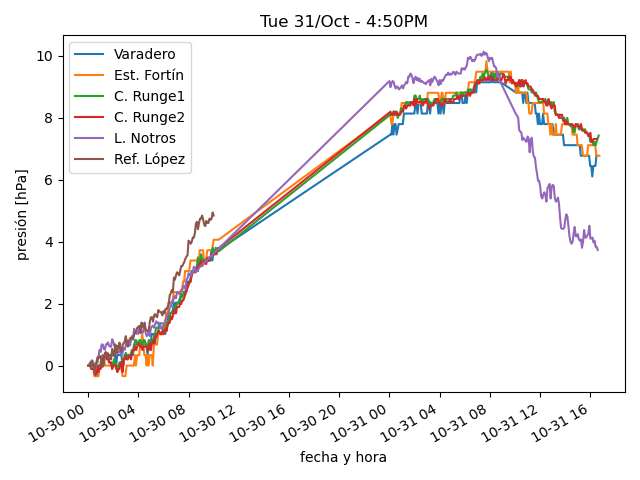
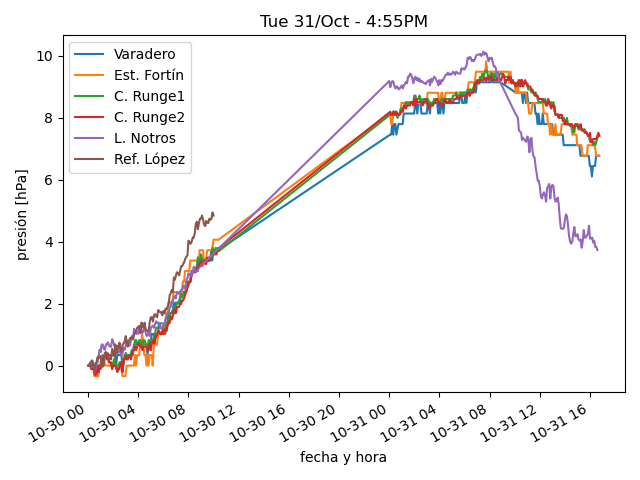
actualiza datos

diff --git a/estaciones/estacion1.html b/estaciones/estacion1.html
@@ -18,22 +18,22 @@
     </tr>
     <tr>
      <td class="stats_data">
-      4:29PM
+      4:44PM
      </td>
     </tr>
     <tr>
      <td class="stats_data">
-      7.5⁰C
+      7.2⁰C
      </td>
     </tr>
     <tr>
      <td class="stats_data">
-      3.3⁰C
+      3.1⁰C
      </td>
     </tr>
     <tr>
      <td class="stats_data">
-      74.5%
+      74.6%
      </td>
     </tr>
     <tr>
@@ -43,7 +43,7 @@
     </tr>
     <tr>
      <td class="stats_data">
-      8.7/11.7 km/hr NE
+      7.0/10.5 km/hr ENE
      </td>
     </tr>
     <tr>
@@ -53,12 +53,12 @@
     </tr>
     <tr>
      <td class="stats_data">
-      0.0
+      1.0
      </td>
     </tr>
     <tr>
      <td class="stats_data">
-      64.6 W/m²
+      171.3 W/m²
      </td>
     </tr>
    </tbody>

diff --git a/estaciones/estacion4.html b/estaciones/estacion4.html
@@ -18,32 +18,32 @@
     </tr>
     <tr>
      <td class="stats_data">
-      4:29PM
+      4:44PM
      </td>
     </tr>
     <tr>
      <td class="stats_data">
-      7.5⁰C
+      6.7⁰C
      </td>
     </tr>
     <tr>
      <td class="stats_data">
-      -0.4⁰C
+      1.8⁰C
      </td>
     </tr>
     <tr>
      <td class="stats_data">
-      57.4%
+      71.3%
      </td>
     </tr>
     <tr>
      <td class="stats_data">
-      1019.54hPa
+      1019.64hPa
      </td>
     </tr>
     <tr>
      <td class="stats_data">
-      1.2/2.1 km/hr NW
+      1.7/2.7 km/hr SW
      </td>
     </tr>
     <tr>
@@ -58,7 +58,7 @@
     </tr>
     <tr>
      <td class="stats_data">
-      83.8 W/m²
+      81.0 W/m²
      </td>
     </tr>
    </tbody>
